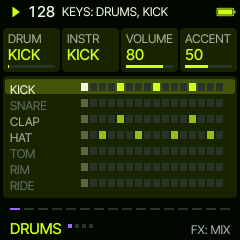
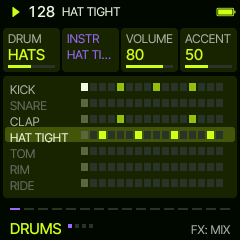
Drums: eight variations of each on INSTR (the kit's, TIGHT ROOM HIGH LOW, 80 10 DEEP)
The drum engine takes a lane's own variation over the KIT knob (eng_drum.c drum_lane_ov: another machine's piece,
pitch, tone, decay; all 0 as Felucca plays it); the glue sets each row's channels.

Claude-Session: https://claude.ai/code/session_01VgesZgNNDFiPGvKyDTZVUK

diff --git a/firmware/src/sa_ui.c b/firmware/src/sa_ui.c
@@ -163,6 +163,15 @@ static const char *sv_layer_name(const sa_ui *u, int l)
     const sa_groove *g = u->g;
     const sa_code *c = g->ed[l].type != SA_T_NONE ? &g->ed[l] : &g->s.code[l];
     if (c->type == SA_T_NONE) return "-";
+    if (c->type == SA_T_DRUM && c->amode % SA_DVARS) {   /* a drum's variation: CLAP TIGHT */
+        static char nb[4][24];
+        static int at;
+        char *b = nb[at++ & 3];
+        sv_cpy(b, sa_dv_name(c->sound), 24);
+        sv_cat(b, " ", 24);
+        sv_cat(b, sa_dvar_name(c->amode % SA_DVARS), 24);
+        return b;
+    }
     return sas_name(c->type, c->sound);
 }
 
@@ -174,17 +183,20 @@ static int sv_drum_rows(const sa_ui *u, int *rows)
     return SA_DROWS;
 }
 static int sv_drow_count(const sa_ui *u) { (void)u; return SA_DROWS; }
+static void sv_msg(sa_ui *u, const char *m);
 /* a row's INSTR, turned: another drum of its channel, at once */
 static void sv_instr_turn(sa_ui *u, int d)
 {
     sa_groove *g = u->g;
     int l = u->layer;
-    uint8_t list[SA_DVS];
+    uint8_t list[SA_DVS];                          /* (each drum of the row, in its eight variations) */
     int n = sa_row_voices(l - SA_L_DRUM0, list), at = 0;
-    for (int i = 0; i < n; ++i) if (list[i] == g->ed[l].sound) at = i;
-    at = sv_clampi(at + d, 0, n - 1);
-    g->ed[l].sound = g->s.code[l].sound = list[at];
+    for (int i = 0; i < n; ++i) if (list[i] == g->ed[l].sound) at = i * SA_DVARS + g->ed[l].amode % SA_DVARS;
+    at = sv_clampi(at + d, 0, n * SA_DVARS - 1);
+    g->ed[l].sound = g->s.code[l].sound = list[at / SA_DVARS];
+    g->ed[l].amode = g->s.code[l].amode = (uint8_t)(at % SA_DVARS);
     g->sound_sig++;
+    sv_msg(u, sv_layer_name(u, l));
 }
 static void sv_drum_sync(sa_ui *u)               /* the row picked: its slot */
 {
@@ -381,6 +393,7 @@ static void sv_cards_of(sa_ui *u, sv_card *c)
         if (u->view == SV_V_DRUMS) {
             sv_card_txt(&c[0], "DRUM", sa_row_name(l - SA_L_DRUM0), (l - SA_L_DRUM0) * 1000 / (SA_DROWS - 1), false);
             sv_card_txt(&c[1], "INSTR", sv_layer_name(u, l), -1, false);
+            c[1].name = true;
             sv_card_num(&c[2], "VOLUME", v->level, 0, 100);
             sv_card_num(&c[3], "ACCENT", v->env, 0, 100);
         } else {
@@ -489,6 +502,7 @@ static void sv_cards_of(sa_ui *u, sv_card *c)
         if (u->view == SV_V_DRUMS) {
             sv_card_txt(&c[1], "KIT", sa_kit_name(s->kit), s->kit * 1000 / (SA_KITS - 1), false);
             sv_card_txt(&c[2], "INSTR", sv_layer_name(u, l), -1, false);
+            c[2].name = true;
         } else {
             static const char *const ROLE[SAS_ROLES] = {"BASS", "KEYS", "PADS", "LEADS", "FX"};
             int role = sas_of(lc->sound)->role % SAS_ROLES;

diff --git a/firmware/src/eng_drum.c b/firmware/src/eng_drum.c
@@ -87,10 +87,18 @@ static const int8_t DRUM_GM[47][2] = {
 };
 /* the drum of a note (DVT_*, or a model kit's lane: DV_KTYPE) and its semitones; KICK picks the kick; a model kit
  * plays its own piece on the note's lane */
+/* (Sardine) a lane's own variation over the KIT knob, per part: kit 0 the KIT's, 1 STD, 2.. the model kits (DK_80 ..);
+ * semitones, TONE and DECAY added to the knobs'. All 0: as Felucca plays it */
+typedef struct { uint8_t kit; int8_t semi, tone, decay; } drum_lane_ov_t;
+static drum_lane_ov_t drum_lane_ov[NPART][DV_NLANE];
+static uint32_t drum_gm_part;                     /* (the part drum_gm is asked for: drum_note_on sets it) */
 static uint32_t drum_gm(const int16_t *p, uint32_t note, int32_t *st)
 {
     uint32_t n = note >= 35u && note <= 81u ? note : 36u + (note + 120u - 36u) % 12u, t = (uint32_t)DRUM_GM[n - 35u][0];
     uint32_t kit = drum_kit_plays(p[P_E0]);           /* STD, the model kits */
+    uint32_t ov = drum_lane_ov[drum_gm_part % NPART][DV_TYPE_LANE[t]].kit;
+    if (ov == 1u) kit = DK_STD;
+    else if (ov >= 2u && DK_80 + ov - 2u < DK_COUNT) kit = DK_80 + ov - 2u;
     *st = DRUM_GM[n - 35u][1];
     if (kit >= DK_80)
         return DV_KTYPE(kit - DK_80 + 1u, DV_TYPE_LANE[t]);
@@ -216,6 +224,7 @@ static void drum_note_on(track_t *t, voice_t *v)
     int32_t st;
     if (!K || i >= NVOICE)
         return;
+    drum_gm_part = (uint32_t)(t - trk) % NPART;
     role = drum_gm(t->p, v->note, &st);
     lane = drum_lane(v->note);
     L = &K[(uint32_t)v->s[0] & (DV_NLANE - 1u)];
@@ -279,11 +288,12 @@ static void drum_render(track_t *t, voice_t *v, int32_t *out, uint32_t n, const 
         n = CTL;
     r = L->role;
     dv_default(&k, r);                                   /* the knobs move every lane from its design (64) */
-    k.decay = (uint8_t)clamp(k.decay + p[P_E3] - 64, 0, 127);
-    k.tone = (uint8_t)clamp(k.tone + p[P_E2] - 64, 0, 127);
+    const drum_lane_ov_t *ov = &drum_lane_ov[(uint32_t)(t - trk) % NPART][(uint32_t)v->s[0] & (DV_NLANE - 1u)];
+    k.decay = (uint8_t)clamp(k.decay + p[P_E3] - 64 + ov->decay, 0, 127);
+    k.tone = (uint8_t)clamp(k.tone + p[P_E2] - 64 + ov->tone, 0, 127);
     k.extra = (uint8_t)clamp(k.extra + p[P_E4] - 64, 0, 127);
     k.accent = (uint8_t)clamp(acc >> 9, 0, 127);         /* (Q16 -> 0..127) */
-    k.tune = (int16_t)(L->st * 16 + (p[P_E1] - 64) * 3);   /* +-12 semitones */
+    k.tune = (int16_t)((L->st + ov->semi) * 16 + (p[P_E1] - 64) * 3);   /* +-12 semitones */
     if (((const uint32_t *)&k)[0] != ((const uint32_t *)&L->key)[0] ||
         ((const uint32_t *)&k)[1] != ((const uint32_t *)&L->key)[1]) {
         dv_setup(&L->c, &k);                             /* (a parameter moved) */

diff --git a/tests/sa_ui_test.c b/tests/sa_ui_test.c
@@ -378,11 +378,16 @@ int main(int argc, char **argv)
     sv_knob(&ui, SV_K1, 3);
     CHECK(ui.layer == SA_L_DRUM0 + SA_DR_HATS && g.s.code[ui.layer].sound == SA_DV_HAT, "DRUM: the HATS row, a HAT");
     sv_knob(&ui, SV_K2, 1);
-    CHECK(g.s.code[ui.layer].sound == SA_DV_OPEN && g.ed[ui.layer].sound == SA_DV_OPEN && !sa_pending(&g),
+    CHECK(g.s.code[ui.layer].sound == SA_DV_HAT && g.s.code[ui.layer].amode == 1 && !strcmp(ui.msg, "HAT TIGHT"),
+          "INSTR: HAT TIGHT, a variation (%s)", ui.msg);
+    shot("13b_drums_variation");
+    sv_knob(&ui, SV_K2, SA_DVARS - 1);
+    CHECK(g.s.code[ui.layer].sound == SA_DV_OPEN && g.s.code[ui.layer].amode == 0 && !sa_pending(&g),
           "INSTR: the open hat, at once");
-    sv_knob(&ui, SV_K2, 5);
-    CHECK(g.s.code[ui.layer].sound == SA_DV_SHAKER, "INSTR stops at the row's last (%d)", g.s.code[ui.layer].sound);
-    sv_knob(&ui, SV_K2, -5);
+    sv_knob(&ui, SV_K2, 40);
+    CHECK(g.s.code[ui.layer].sound == SA_DV_SHAKER && g.s.code[ui.layer].amode == SA_DVARS - 1,
+          "INSTR stops at the row's last: SHAKER DEEP (%d %d)", g.s.code[ui.layer].sound, g.s.code[ui.layer].amode);
+    sv_knob(&ui, SV_K2, -40);
     sv_knob(&ui, SV_K4, 10);
     CHECK(g.s.live[ui.layer].env == 70, "ACCENT");
     press(SV_B_REC);
@@ -397,7 +402,7 @@ int main(int argc, char **argv)
     /* a row OFF: ALGORITHM gives it a pattern */
     sv_knob(&ui, SV_K1, 1);
     CHECK(ui.layer == SA_L_DRUM0 + SA_DR_TOMS && g.s.code[ui.layer].pat == SA_PAT_OFF, "TOMS: OFF");
-    sv_knob(&ui, SV_K2, 2);
+    sv_knob(&ui, SV_K2, 2 * SA_DVARS);
     sv_knob(&ui, SV_K_ALGO, 11);
     CHECK(g.ed[ui.layer].pat != SA_PAT_OFF && g.s.code[ui.layer].sound == SA_DV_CONGA, "a conga, a pattern waiting");
     shot("15_drums_on");

diff --git a/firmware/src/sa_layer.c b/firmware/src/sa_layer.c
@@ -70,6 +70,8 @@ static const uint8_t ROW_DEF[SA_DROWS] = {SA_DV_KICK, SA_DV_SNARE, SA_DV_CLAP, S
                                           SA_DV_RIDE};
 static const char *const ROW_NAMES[SA_DROWS] = {"KICK", "SNARE", "CLAP", "HATS", "TOMS", "RIM", "METAL"};
 int sa_dv_row(int dv) { return DV_ROW[clampi(dv, 0, SA_DVS - 1)]; }
+static const char *const DVAR_NAMES[SA_DVARS] = {"", "TIGHT", "ROOM", "HIGH", "LOW", "80", "10", "DEEP"};
+const char *sa_dvar_name(int v) { return DVAR_NAMES[clampi(v, 0, SA_DVARS - 1)]; }
 const char *sa_row_name(int row) { return ROW_NAMES[clampi(row, 0, SA_DROWS - 1)]; }
 int sa_row_voices(int row, uint8_t *out)
 {
@@ -1090,7 +1092,8 @@ void sa_settings_fix(sa_settings *s)
         c->ooct = (uint8_t)clampi(c->ooct, 1, 6);
         for (int i = 0; i < 16; ++i)
             c->sl[i] = (uint8_t)clampi(c->sl[i], 1, 16);
-        c->amode = (uint8_t)(c->amode < SA_AR_MODES ? c->amode : 0);
+        c->amode = (uint8_t)(c->amode < (c->type == SA_T_DRUM ? SA_DVARS : SA_AR_MODES) ? c->amode : 0);   /* (a drum: its
+                                                                                                   * variation) */
         c->arate = (uint8_t)clampi(c->arate, 0, SA_RATES - 1);
         c->arange = (uint8_t)clampi(c->arange, 1, 4);
         c->agate = (uint8_t)clampi(c->agate, 10, 100);

diff --git a/firmware/src/sa_fw.c b/firmware/src/sa_fw.c
@@ -379,6 +379,17 @@ static void sa_apply(void)
                 sas_synth(&trk[c->part], sas_of(c->sound), &sa_base[c->part], &s->live[l], s, &now);
             }
         }
+        {   /* each drum row's variation onto its channel(s) of the drum engine (eng_drum.c drum_lane_ov) */
+            static const drum_lane_ov_t VAR[SA_DVARS] = {{0, 0, 0, 0}, {0, 0, 10, -28}, {0, 0, -8, 30}, {0, 3, 6, -6},
+                                                          {0, -3, -6, 6}, {2, 0, 0, 0}, {3, 0, 0, 0}, {7, 0, 0, 0}};
+            static const uint8_t LANE[SA_DROWS] = {0, 1, 2, 3, 5, 6, 7};    /* (HATS: the open hat's channel 4 too) */
+            for (int r = 0; r < SA_DROWS; ++r) {
+                const sa_code *c = &s->code[SA_L_DRUM0 + r];
+                drum_lane_ov_t ov = VAR[c->type == SA_T_DRUM ? c->amode % SA_DVARS : 0];
+                drum_lane_ov[SA_PART_DRUMS][LANE[r]] = ov;
+                if (r == SA_DR_HATS) drum_lane_ov[SA_PART_DRUMS][4] = ov;
+            }
+        }
         sas_drums(&trk[SA_PART_DRUMS], s);
         sas_song(s);
         fm1_irq_on();

diff --git a/firmware/src/sa_layer.h b/firmware/src/sa_layer.h
@@ -78,6 +78,10 @@ enum { SA_DR_KICK, SA_DR_SNARE, SA_DR_CLAP, SA_DR_HATS, SA_DR_TOMS, SA_DR_RIM, S
 int sa_dv_row(int dv);                              /* the row a drum voice plays on */
 int sa_row_voices(int row, uint8_t *out);           /* a row's drum voices (its INSTR list) */
 const char *sa_row_name(int row);
+/* a drum row's variation (its code's amode, 0.7): the kit's own drum (0), TIGHT ROOM HIGH LOW (it, reshaped), or another
+ * drum machine's (80 10 DEEP); the glue sets the drum engine's lane by it */
+#define SA_DVARS 8
+const char *sa_dvar_name(int v);                    /* "", "TIGHT" .. */
 
 /* a layer's sound: at once */
 typedef struct {

diff --git a/docs/MANUAL.md b/docs/MANUAL.md
@@ -150,6 +150,11 @@ Seven rows, always there, each on a drum channel of its own, so no two ever cut 
 | RIM | RIM, CLAVE |
 | METAL | RIDE, CRASH, COWBELL |
 
+Every drum comes in eight variations, all on the INSTR knob: as the kit has it, **TIGHT** (short and bright), **ROOM**
+(long and darker), **HIGH**, **LOW**, and the same drum from three other drum machines (**80**, **10**, **DEEP**),
+whatever the kit: CLAP, CLAP TIGHT, CLAP ROOM .. CLAP DEEP, then (on HATS) OPEN HAT, OPEN HAT TIGHT and so on. The
+header says the whole name as it turns.
+
 Each row shows its drum and its bar (the second colour: waiting for SEQ); a row OFF is dimmed. The home page: **DRUM**
 (KNOB 1, the row), **INSTR** (its drum, at once), **VOLUME** and **ACCENT** (how hard the accented steps hit against
 the rest; 50: as written). ALGORITHM turns the row's pattern, OFF first: a pattern turns the row on, OFF turns it off;

diff --git a/docs/RELEASE.md b/docs/RELEASE.md
@@ -8,7 +8,7 @@ Sardine 0.7: live club mixing for the FM-1.
   back in on the 1; LFO held: SWEEP, the filter closing over two bars
 - GLO: a MIXER, the four layers' volumes and mutes
 - SELECT is the tempo, ALGORITHM the pattern; SEQ drops what waits on the one; REC records steps on the keys
-- DRUMS: seven rows on channels of their own (KICK SNARE CLAP HATS TOMS RIM METAL), each drum switched at once;
+- DRUMS: seven rows on channels of their own (KICK SNARE CLAP HATS TOMS RIM METAL), each drum switched at once, in eight variations (TIGHT ROOM HIGH LOW, 80 10 DEEP);
   VOLUME and ACCENT per row, CHANCE beside the modifiers; the kit's TUNE, TONE and DECAY on its KIT page
 - PUMP per layer: its depth (set by the sound's type), release, and the kick or every beat
 - 3D: a synth layer placed around you for headphones (angle, height, distance), fixed or moving (ORBIT, RANDOM,
